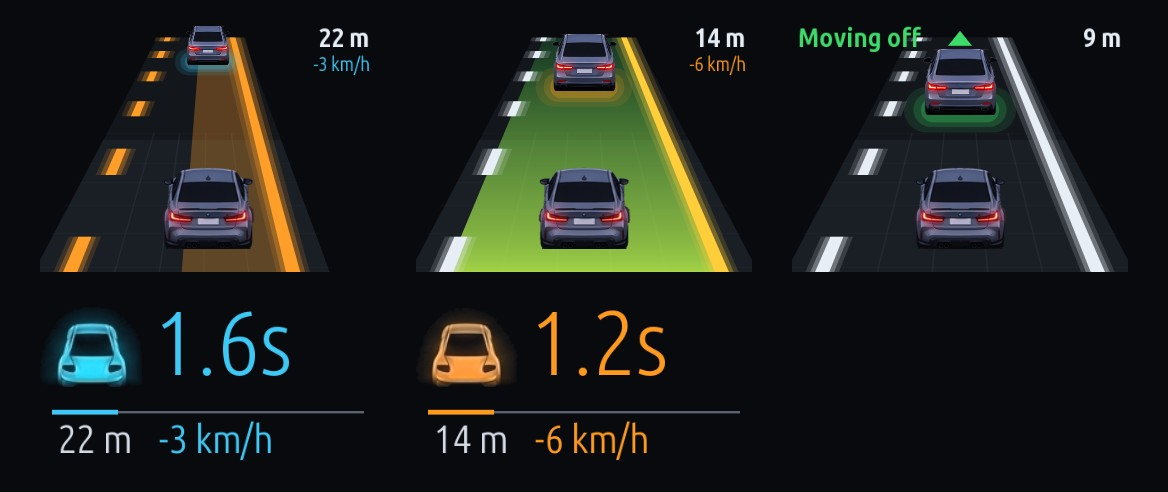
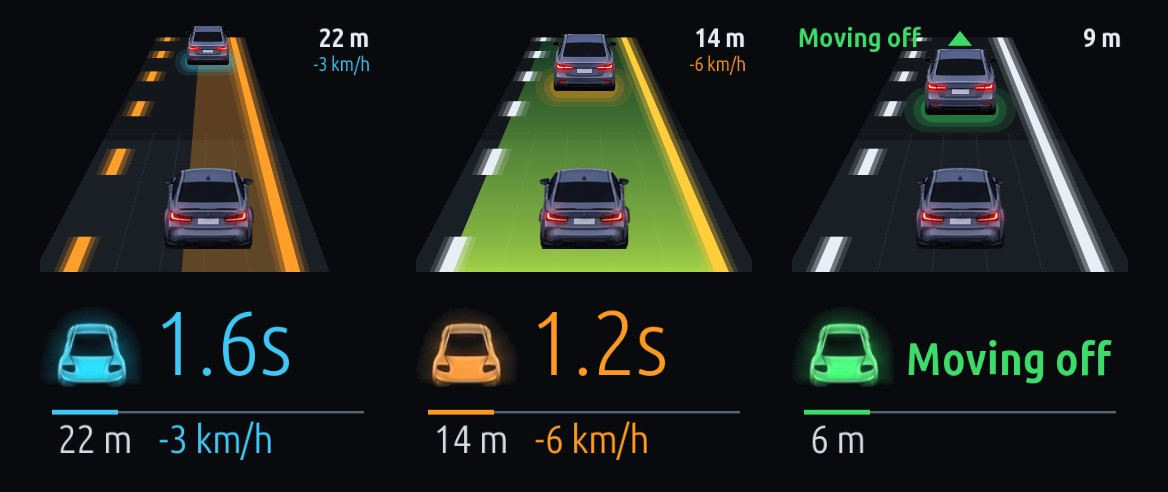
Cluster Redline 1.3.92: English departure badge reads "Moving off"
The badge's big place used the thin figures' atlas, which holds digits and
units only, so the English edition drew "Mig". A word there now goes in the
bold face; time gap and distance stay thin. Korean unchanged. Guides: 1.3.92,
the HUD picture shows the departure badge.

Claude-Session: https://claude.ai/code/session_01NxZr4X5HwbmzhagkmmYuBa

Changed region(s): [[0.6781, 0.6402, 0.9555, 0.7927], [0.6781, 0.8232, 0.9555, 0.9146]]

diff --git a/tests/cluster_redline/headway.test.js b/tests/cluster_redline/headway.test.js
@@ -54,6 +54,11 @@ const flush=async()=>{for(let i=0;i<8;i++)await Promise.resolve();};
  assert.strictEqual(content({gap:36,headway:1.8,closing:-6,level:'ok'},'simple').closing,null,'simple: no closing speed');
  assert.deepStrictEqual(content({gap:6,headway:null,closing:null,level:'ok'},'detail'),{big:'6 m',dist:null,closing:null,color:'#3ec8f5'},'slow: the distance big');
  if(process.argv[2]){const dir=path.join(path.resolve(process.argv[2]),'source/javascript'),O=require(path.join(dir,'headway-overlay'));
+  // 1.3.92: a word in the big place ("Moving off") in the bold face (the thin one has digits and units only: "Mig")
+  {const {Canvas}=require(path.join(dir,'kit/canvas')),t0=Canvas.prototype.text,seen=[];Canvas.prototype.text=function(v,x,y,sz,c,o){seen.push([String(v),o&&o.font]);return t0.apply(this,arguments);};
+   try{O.draw({gap:6,go:true},'detail',112,60);O.draw({gap:18,headway:1.6,closing:-3,level:'ok'},'detail',112,60);O.draw({gap:6,headway:null,closing:null,level:'ok'},'detail',112,60);}finally{Canvas.prototype.text=t0;}
+   const big=seen.filter(e=>e[1]==='light'||e[1]==='bold');const go=big.find(e=>!/^[0-9.,\s+\-ms]*$/.test(e[0]));
+   assert(go&&go[1]==='bold','the departure word in bold: '+JSON.stringify(big));assert(big.some(e=>e[0]==='1.6s'&&e[1]==='light')&&big.some(e=>e[0]==='6 m'&&e[1]==='light'),'figures stay thin');}
   const cv=O.draw({gap:36,headway:0.8,closing:-6,level:'red'},'detail',112,60);let red=0;for(let i=0;i<cv.d.length;i+=4)if(cv.d[i]>200&&cv.d[i+1]<80&&cv.d[i+3]>200)red++;assert(red>80,'drawn red');}
  // 1.3.65: nothing offered on the manifest's instance for 20 s: subscribed again on instance 1 (as cluster-metrics), once;
  // the screen shows whether the radar's service is offered and on which instance

diff --git a/apps/cluster_redline/headway-overlay.js b/apps/cluster_redline/headway-overlay.js
@@ -26,8 +26,11 @@ function paint(cv,v,mode) {
     // (1.3.80) the icon cut from the user's reference picture, its glow included (hud-art.js)
     const art=require('./hud-art'),name=v.level==='red'?'red':v.level==='amber'?'amber':'ok',sz=art.size(name),iw=34,ih=iw*sz.h/sz.w;art.paint(cv,name,0,35-ih,iw,ih,v.go?{tint:'#3ddc6a'}:undefined);
     if(v.level==='red')[36.5,39.5].forEach((y,i)=>cv.fillRect(6+i*2,y,22-i*4,1.6,col));
-    let size=30;while(size>18&&cv.textWidth(c.big,size,{font:'light',literal:true})>W-40)size--;
-    cv.text(c.big,38,31,size,col,{font:'light',literal:true});
+    // (1.3.92) the thin figures' atlas holds digits and units only: a word ("Moving off") goes in the bold face, which
+    // has every letter (the English edition drew "Mig"); Korean picks its Hangul atlas either way
+    const face=/^[0-9.,\s+\-ms]*$/.test(c.big)?'light':'bold';
+    let size=30;while(size>14&&cv.textWidth(c.big,size,{font:face,literal:true})>W-40)size--;
+    cv.text(c.big,38,31,size,col,{font:face,literal:true});
     cv.fillRect(4,43,104,0.8,[90,100,112,255]);cv.fillRect(4,42.6,22,1.6,col);
     let x=6;
     if(c.dist){cv.text(c.dist,x,57,13,'#d4dbe4',{literal:true});x+=cv.textWidth(c.dist,13,{literal:true})+9;}

diff --git a/docs/CLUSTER-REDLINE.ko.md b/docs/CLUSTER-REDLINE.ko.md
@@ -1,4 +1,4 @@
-# 계기판 레드라인 1.3.91 설명서
+# 계기판 레드라인 1.3.92 설명서
 
 [English](CLUSTER-REDLINE.md) · [설치 안내](INSTALL.ko.md) · [앱 소개](../README.ko.md) · [업데이트 이력](../CHANGELOG.md)
 
@@ -37,7 +37,7 @@
 3. 함께 설치되는 도구:
    - 계기판 렌더러 **`cluster-render` 0.4.0 이상**: MGU Store 기본 소스(`robertnisipeanu/idrive-apps`)가 제공하므로, 그 소스가 등록되어 있어야 합니다.
    - **Cluster Redline 앞차 도우미(`redline-lead`) 0.4.0**: 이 소스에 들어 있습니다. 앞 카메라·레이더의 앞차, 차선, 주변 물체를 루트 권한으로 **읽기만** 합니다(앱 권한으로는 막혀 있는 차가 있어서). 앞차 간격·차선 표시·상황 기록에 씁니다.
-4. 앱을 열어 오른쪽 위에 **v1.3.91**이 보이면 끝입니다.
+4. 앱을 열어 오른쪽 위에 **v1.3.92**이 보이면 끝입니다.
 
 iDrive 7과 iDrive 8에 설치됩니다. 자세한 내용은 [설치 안내](INSTALL.ko.md)를 보세요.
 
@@ -93,7 +93,7 @@ iDrive 7과 iDrive 8에 설치됩니다. 자세한 내용은 [설치 안내](INS
 
 깜빡이·측후방·문 열림 그림은 위치/크기를 맞추는 동안 미리보기로 HUD에 보입니다. 화면을 나가면 사라집니다.
 
-HUD에는 이렇게 보입니다(왼쪽부터: 기본 바닥색과 청록 1.6초, 연두 바닥색과 주황 1.2초, 앞차 출발).
+HUD에는 이렇게 보입니다(왼쪽부터: 기본 바닥색과 청록 1.6초, 연두 바닥색과 주황 1.2초, 앞차 출발과 **출발** 배지).
 
 ![HUD 차선 표시와 앞차 간격](../screenshots/cluster_redline/manual/face-hud-lanes-ko.jpg)
 

diff --git a/docs/CLUSTER-REDLINE.md b/docs/CLUSTER-REDLINE.md
@@ -1,4 +1,4 @@
-# Cluster Redline 1.3.91 user guide
+# Cluster Redline 1.3.92 user guide
 
 [한국어](CLUSTER-REDLINE.ko.md) · [Installation](INSTALL.md) · [The apps](../README.md) · [Changelog](../CHANGELOG.md)
 
@@ -37,7 +37,7 @@ For each drive mode you choose the Redline screen, the stock one or BC mode, and
 3. Installed with it:
    - The cluster renderer **`cluster-render` 0.4.0 or later**. It comes from the Store's default source (`robertnisipeanu/idrive-apps`), which must be registered.
    - **Cluster Redline lead-car helper (`redline-lead`) 0.4.0**, from this source. It **only reads** the front camera's and the radar's car ahead, the lane lines and the road users, as root (some cars keep them from apps). The lead-car headway, lane lines and scene recording use it.
-4. Open the app: **v1.3.91** at the top right means it is done.
+4. Open the app: **v1.3.92** at the top right means it is done.
 
 It installs on iDrive 7 and iDrive 8. See [Installation](INSTALL.md) for details.
 
@@ -93,7 +93,7 @@ Now switch the drive mode to Sport and the Redline screen shows on the cluster.
 
 While you adjust their position / size, the turn arrows, blind spot and door pictures show on the HUD as a preview; they go when you leave the screen.
 
-On the HUD (from the left: the default lane colour with teal 1.6 s, the lime green lane with orange 1.2 s, the car ahead moving off):
+On the HUD (from the left: the default lane colour with teal 1.6 s, the lime green lane with orange 1.2 s, the car ahead moving off with the **Moving off** badge):
 
 ![Lane lines and lead-car headway on the HUD](../screenshots/cluster_redline/manual/face-hud-lanes-en.jpg)
 

diff --git a/CHANGELOG.md b/CHANGELOG.md
@@ -2,6 +2,11 @@
 
 Version history is kept here. For current usage, see [Cluster Redline](docs/CLUSTER-REDLINE.ko.md).
 
+## Cluster Redline 1.3.92 (English: the departure badge reads "Moving off")
+
+- **Fix (English edition): the lead car departure badge showed "Mig"** instead of "Moving off". The badge's big place uses the thin figures' atlas, which holds the digits and units only, so the letters it lacked dropped out. A word there now goes in the bold face, which has every letter; the time gap and the distance ("1.6s", "6 m") stay in thin figures. The Korean edition drew "출발" from its Hangul atlas and looks as before.
+- Tests: `headway` (the departure word in bold, the figures thin; run against the built package).
+
 ## Cluster Redline 1.3.91 (lead-car headway: distance from the bumper)
 
 - **Fix: the lead-car distance read about 2 m too far** (issue appsKOR#5: right behind a car it showed 2 m). The car measures from its sensor behind the windscreen, not from the front bumper. HUD lamps → Lead-car headway now has a **Distance correction** (0 to −3 m in 0.5 m steps, **−2 m by default**) taken off the distance shown, never under 0 m; the time gap and its colour use the corrected distance. The car's own values at the bottom of the screen stay as sent.

diff --git a/docs/INSTALL.md b/docs/INSTALL.md
@@ -31,7 +31,7 @@ If no registered source offers the tool, the Store blocks the install and says w
 
 | Store listing | Version | iDrive 7 | iDrive 8 | Tools installed with it |
 |---|---|:-:|:-:|---|
-| Cluster Redline (English) / 계기판 레드라인 (한국어) | 1.3.91 | ✅ | ✅ | `cluster-render` 0.4.0+, `redline-lead` 0.4.0 (this source, the lead-car and lane helper), `mgu-deploy` 0.7.17+ |
+| Cluster Redline (English) / 계기판 레드라인 (한국어) | 1.3.92 | ✅ | ✅ | `cluster-render` 0.4.0+, `redline-lead` 0.4.0 (this source, the lead-car and lane helper), `mgu-deploy` 0.7.17+ |
 | MGU Monitor (English) / MGU 모니터 (한국어) | 1.1.10 | ✅ | ✅ | `mgu-monitor-names` 0.1.0 (this source), `mgu-deploy` |
 | iDrive Circuit (English) / 아이드라이브 회로 (한국어) | 1.0.5 | ✅ | ✅ | `mgu-deploy` |
 | Seats Easy Access (English) / 시트 Easy Access (한국어) | 0.7.10 | ✅ | ✅ | `iteriodev-comfort` 0.6.1+, `mgu-deploy` 0.7.11+ |

diff --git a/README.md b/README.md
@@ -15,7 +15,7 @@ Apps for BMW iDrive 7 and 8 head units, installed from **MGU Store**. Every app 
 
 ## The apps
 
-### Cluster Redline 1.3.91 · iDrive 7·8 · English/Korean
+### Cluster Redline 1.3.92 · iDrive 7·8 · English/Korean
 
 ![Cluster Redline](screenshots/cluster_redline/manual/face-cluster-gauges-boost-torque-en.jpg)
 

diff --git a/apps/cluster_redline/README.ko.md b/apps/cluster_redline/README.ko.md
@@ -1,4 +1,4 @@
-# 계기판 레드라인 1.3.91
+# 계기판 레드라인 1.3.92
 
 [English](README.md)
 

diff --git a/apps/cluster_redline/README.md b/apps/cluster_redline/README.md
@@ -1,4 +1,4 @@
-# Cluster Redline 1.3.91
+# Cluster Redline 1.3.92
 
 [한국어](README.ko.md)
 
